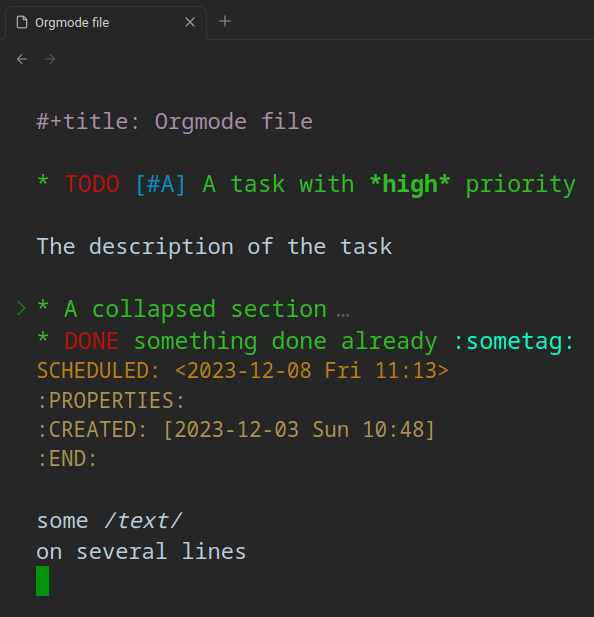
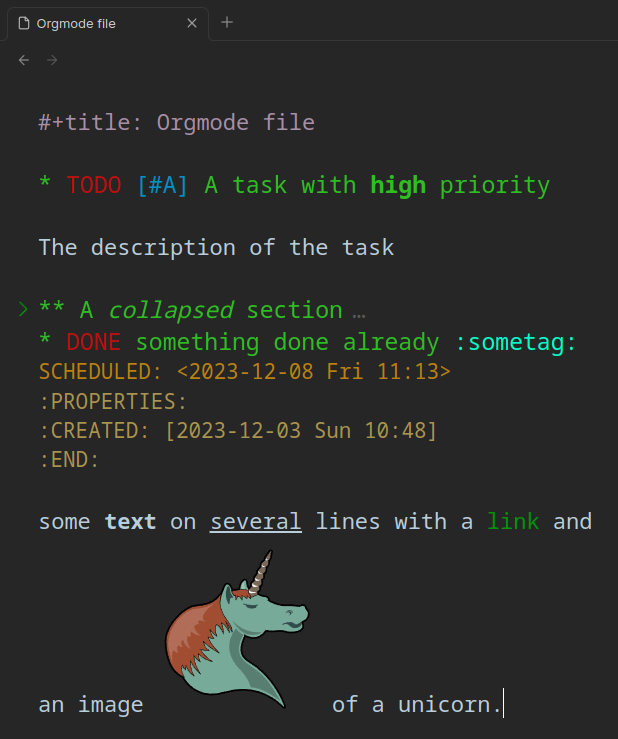
update screenshot and readme with live preview features

diff --git a/README.md b/README.md
@@ -12,6 +12,8 @@ Inspired by https://github.com/ryanpcmcquen/obsidian-org-mode and https://github
 - collapsable headings
 - customizable todo keywords in the settings
 - customizable colors via css (use the [styles.css](./styles.css) as a [css snippet](https://help.obsidian.md/Extending+Obsidian/CSS+snippets) and tweak it)
+- text markup (bold, italic, underline, strike-through)
+- links (url, vault file, a link to an image is rendered)
 - show orgmode tasks in markdown files (unstable feature, see the [dedicated section](#show-orgmode-tasks-in-markdown-files))
 
 ## Usage
@@ -28,7 +30,7 @@ To create an org file in your vault, you currently have to create outside obsidi
 If you don't already have an org file, try to create a file called `todo.org` with the following content:
 
 ```org
-* TODO [#A] A task with high priority
+* TODO [#A] A task with *high* priority
 
 The description of the task
 
@@ -41,6 +43,8 @@ SCHEDULED: <2023-12-08 Fri 11:13>
 :PROPERTIES:
 :CREATED: [2023-12-03 Sun 10:48]
 :END:
+
+a [[https://github.com/BBazard/obsidian-orgmode-cm6][link]]
 ```
 
 ## Show orgmode tasks in markdown files
